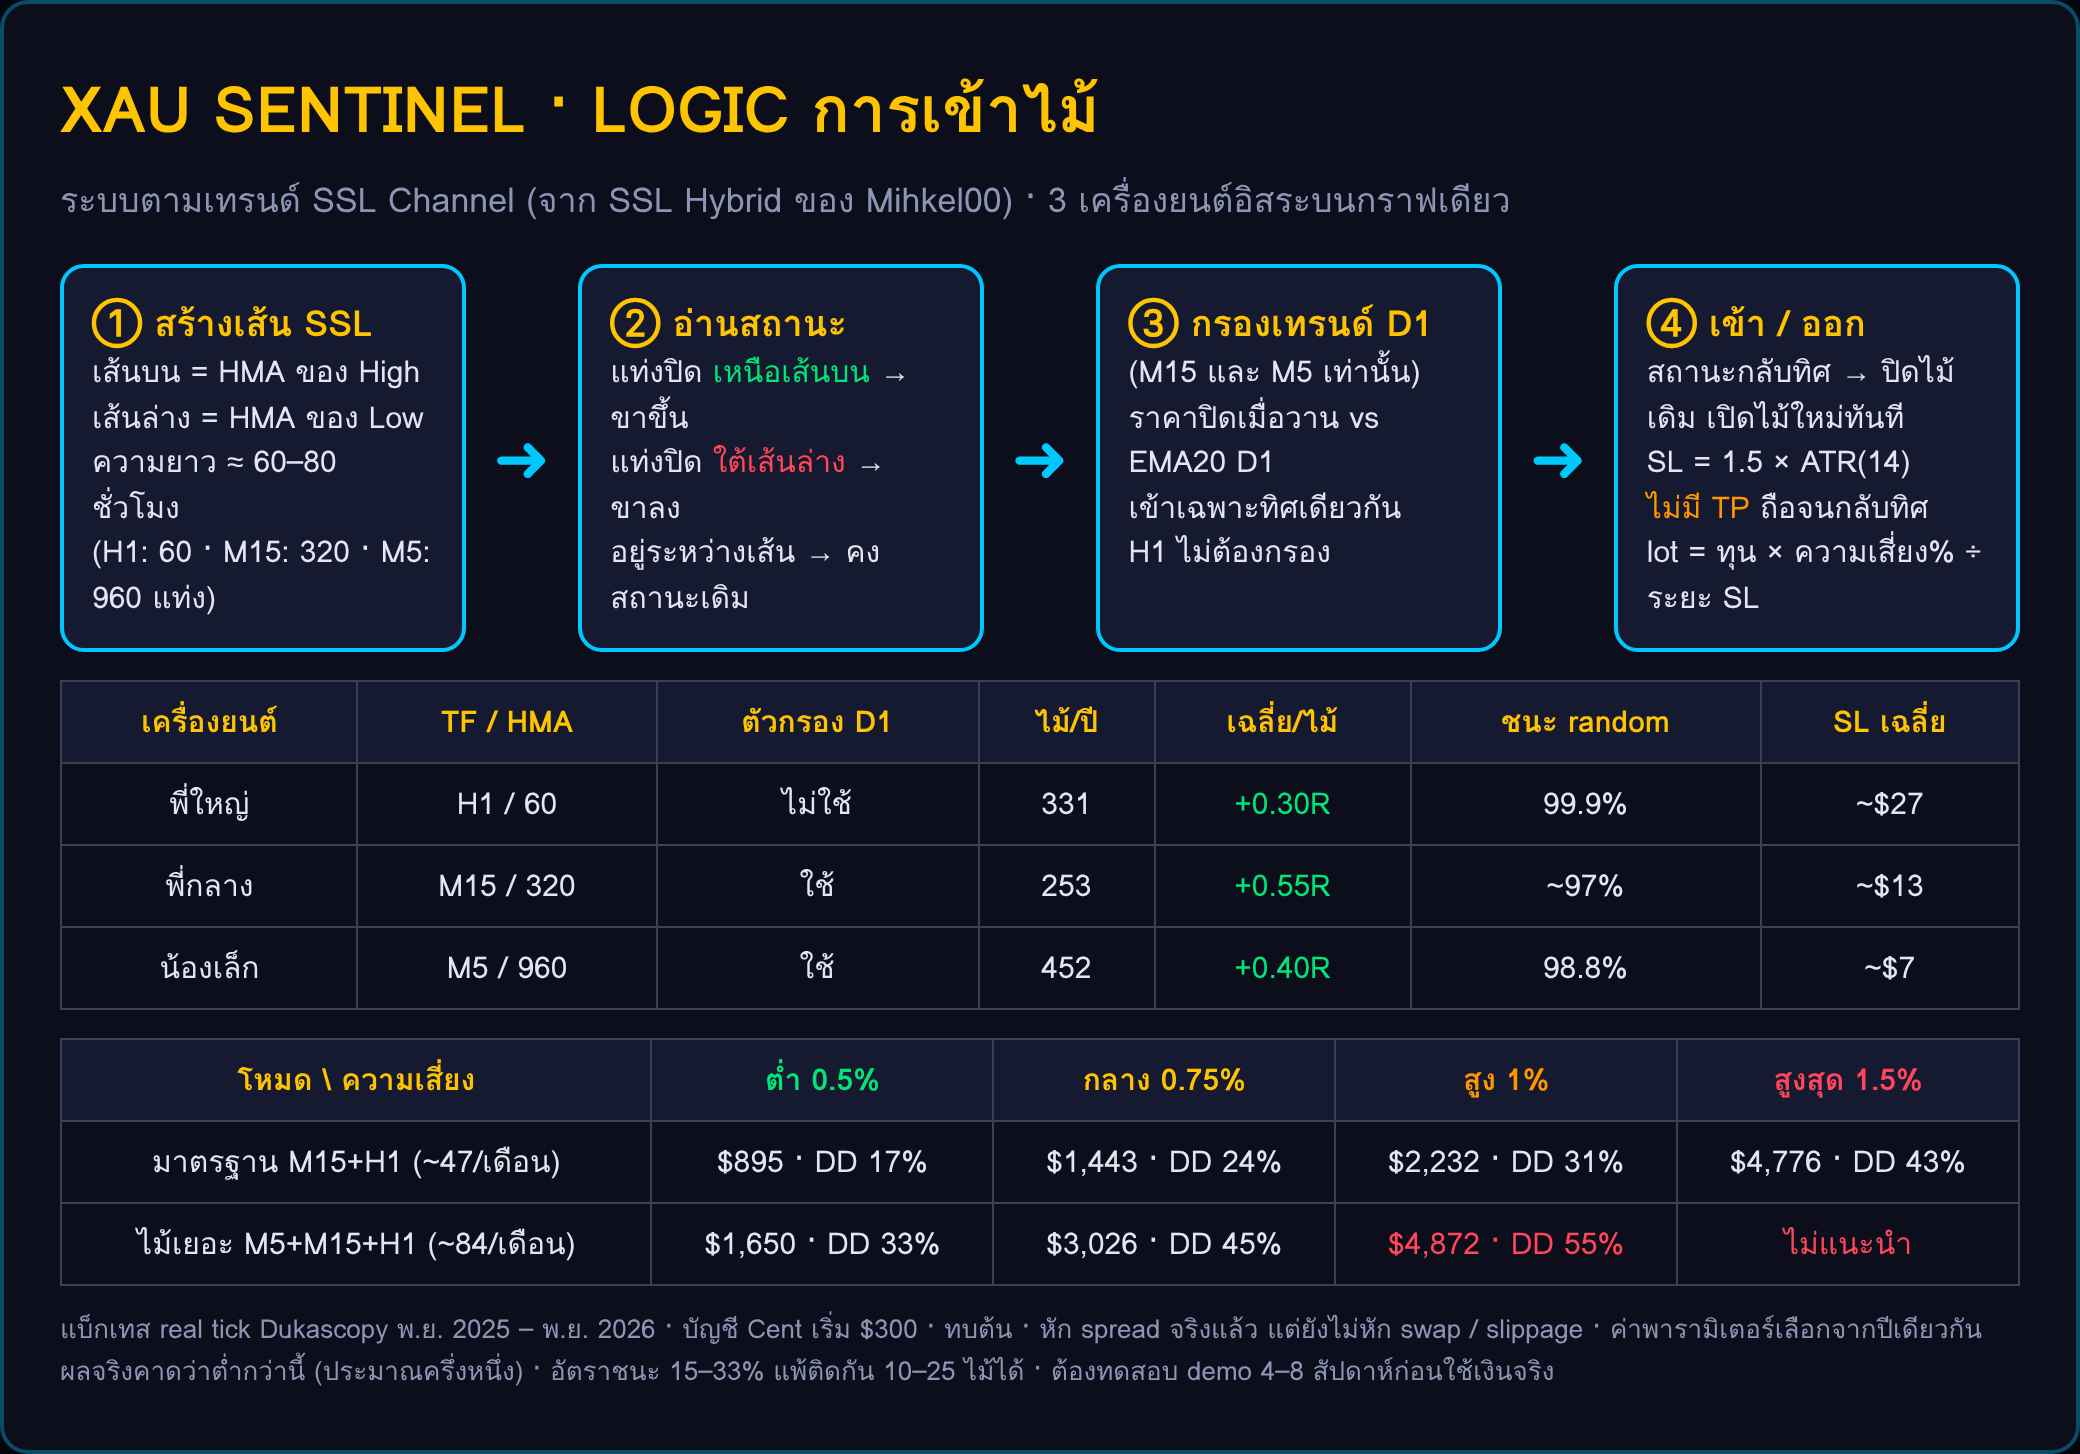
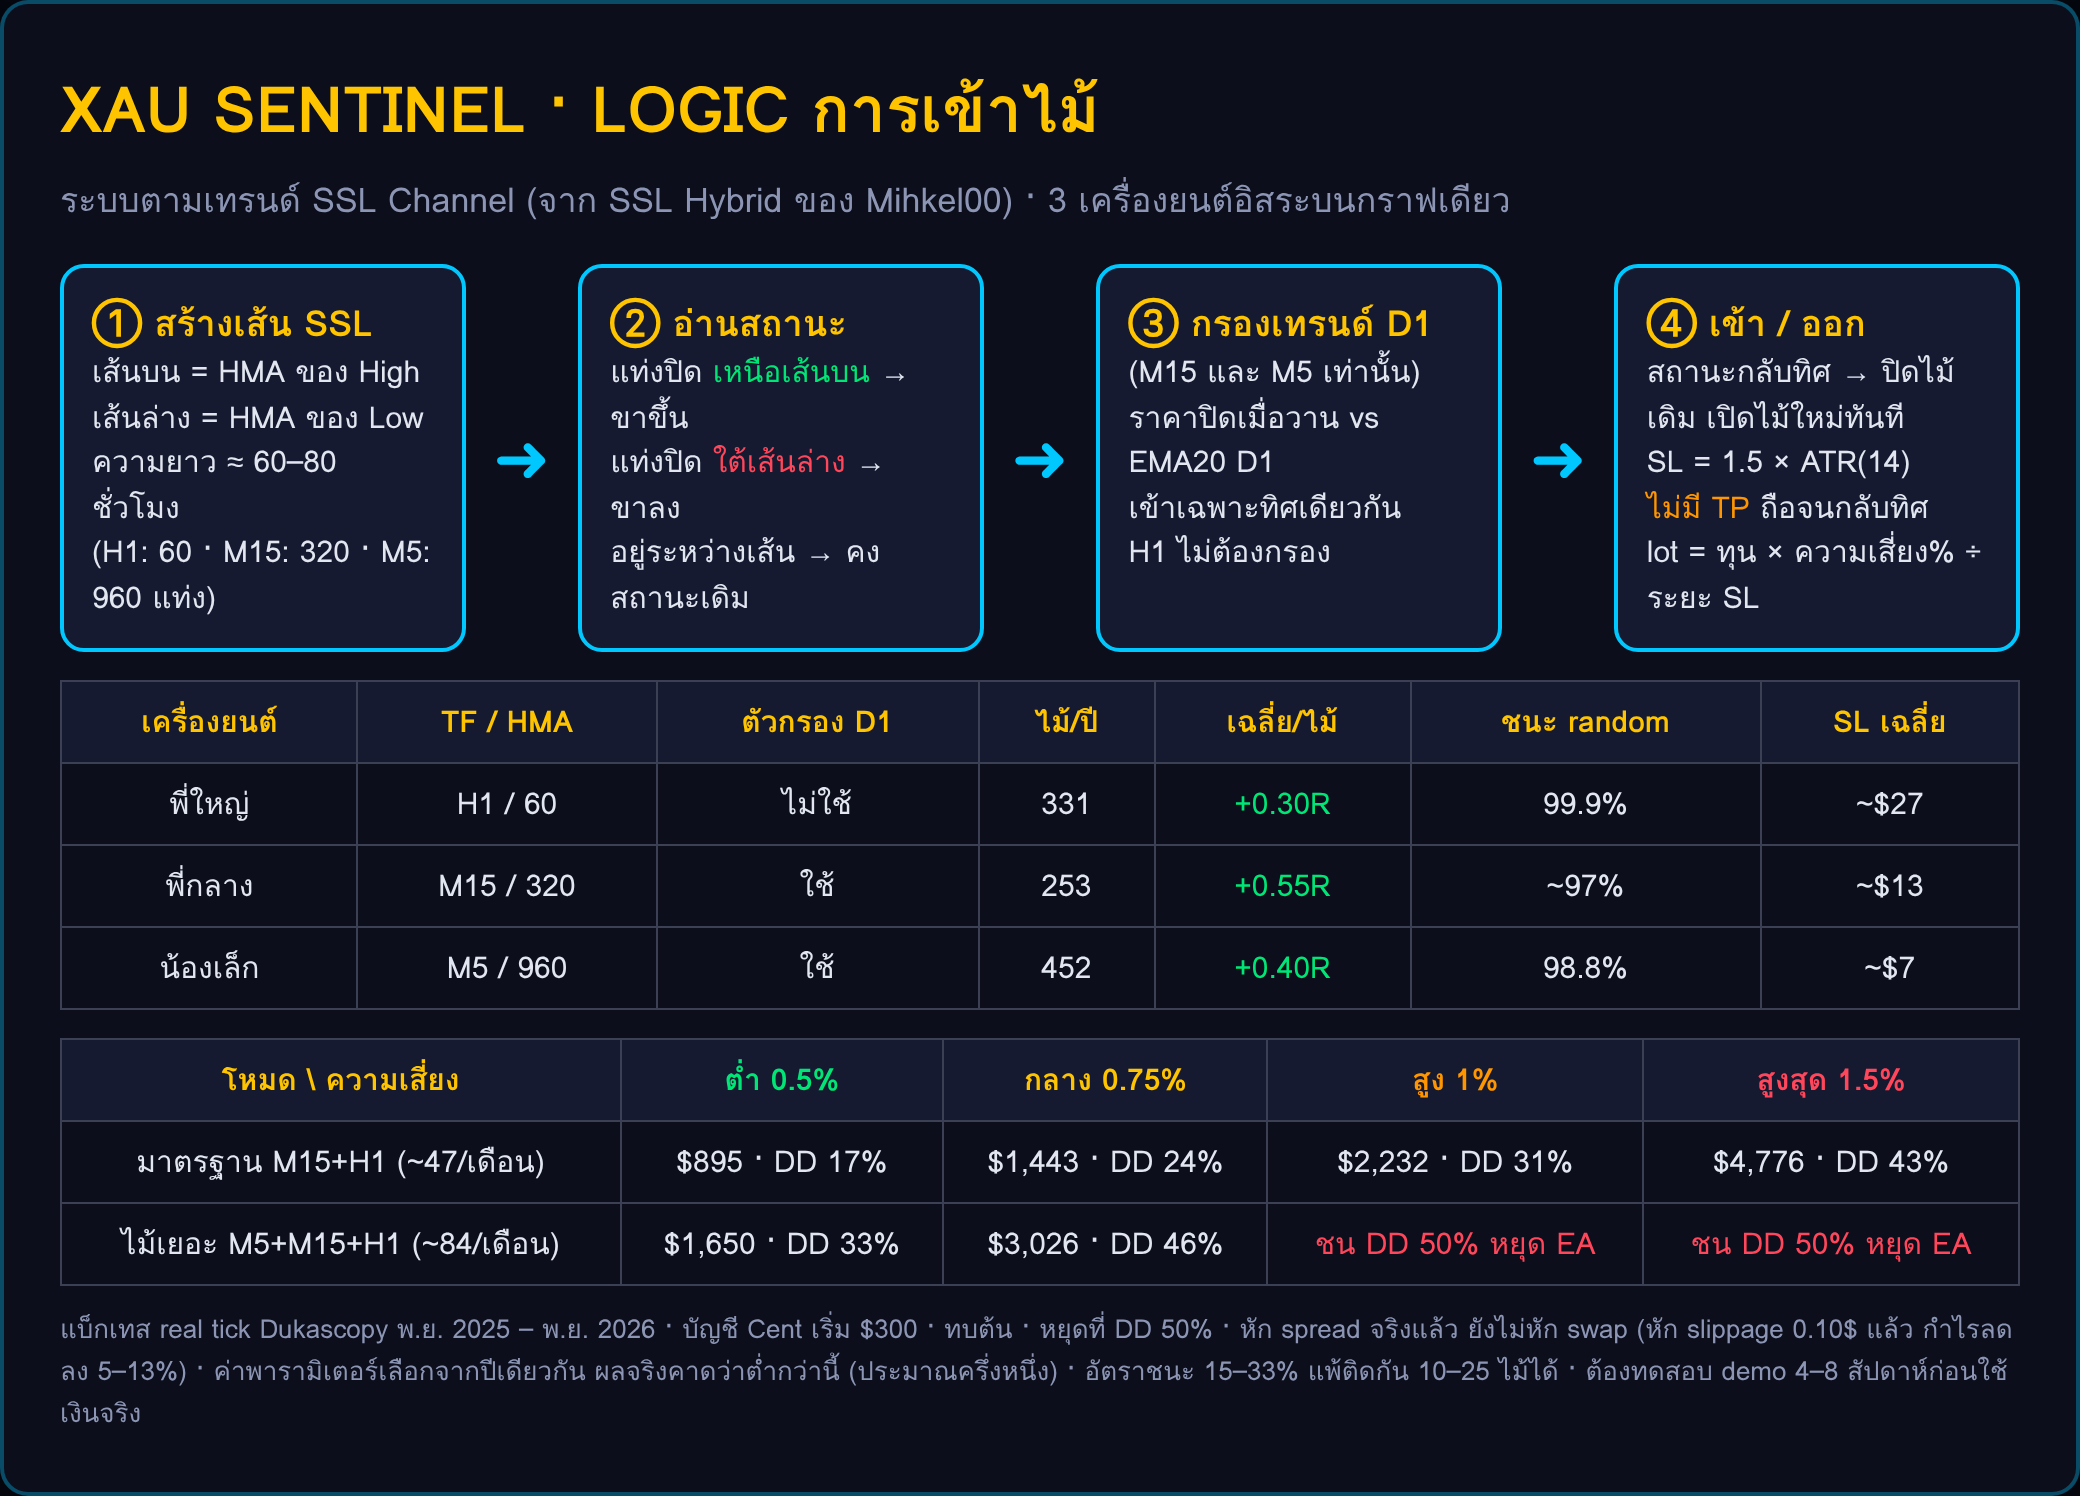
XAU SENTINEL: year backtest with DD halt, slippage; correct high-freq 1%/1.5% figures
Claude-Session: https://claude.ai/code/session_01TDJgaM6YEUTqHfHKeX7Vt3

diff --git a/MQL5/Docs/sentinel/sentinel_visuals.html b/MQL5/Docs/sentinel/sentinel_visuals.html
@@ -97,9 +97,9 @@ td,th{border:1px solid #3c4055;padding:8px 10px;text-align:center}th{background:
  <table>
   <tr><th>โหมด \ ความเสี่ยง</th><th class="g">ต่ำ 0.5%</th><th style="color:#ffc400">กลาง 0.75%</th><th class="o">สูง 1%</th><th class="r">สูงสุด 1.5%</th></tr>
   <tr><td>มาตรฐาน M15+H1 (~47/เดือน)</td><td>$895 · DD 17%</td><td>$1,443 · DD 24%</td><td>$2,232 · DD 31%</td><td>$4,776 · DD 43%</td></tr>
-  <tr><td>ไม้เยอะ M5+M15+H1 (~84/เดือน)</td><td>$1,650 · DD 33%</td><td>$3,026 · DD 45%</td><td class="r">$4,872 · DD 55%</td><td class="r">ไม่แนะนำ</td></tr>
+  <tr><td>ไม้เยอะ M5+M15+H1 (~84/เดือน)</td><td>$1,650 · DD 33%</td><td>$3,026 · DD 46%</td><td class="r">ชน DD 50% หยุด EA</td><td class="r">ชน DD 50% หยุด EA</td></tr>
  </table>
- <div class="small" style="margin-top:12px;line-height:1.6">แบ็กเทส real tick Dukascopy พ.ย. 2025 – พ.ย. 2026 · บัญชี Cent เริ่ม $300 · ทบต้น · หัก spread จริงแล้ว แต่ยังไม่หัก swap / slippage ·
+ <div class="small" style="margin-top:12px;line-height:1.6">แบ็กเทส real tick Dukascopy พ.ย. 2025 – พ.ย. 2026 · บัญชี Cent เริ่ม $300 · ทบต้น · หยุดที่ DD 50% · หัก spread จริงแล้ว ยังไม่หัก swap (หัก slippage 0.10$ แล้ว กำไรลดลง 5–13%) ·
  ค่าพารามิเตอร์เลือกจากปีเดียวกัน ผลจริงคาดว่าต่ำกว่านี้ (ประมาณครึ่งหนึ่ง) · อัตราชนะ 15–33% แพ้ติดกัน 10–25 ไม้ได้ · ต้องทดสอบ demo 4–8 สัปดาห์ก่อนใช้เงินจริง</div>
 </div>
 </body></html>

diff --git a/MQL5/Docs/sentinel/XAU_SENTINEL_คู่มือ.md b/MQL5/Docs/sentinel/XAU_SENTINEL_คู่มือ.md
@@ -20,9 +20,10 @@
 | โหมด \ ความเสี่ยง | ต่ำ 0.5% | กลาง 0.75% | สูง 1% | สูงสุด 1.5% |
 |---|---|---|---|---|
 | มาตรฐาน M15+H1 (~47 ไม้/เดือน) | $895 · DD 17% | $1,443 · DD 24% | $2,232 · DD 31% | $4,776 · DD 43% |
-| ไม้เยอะ M5+M15+H1 (~84 ไม้/เดือน) | $1,650 · DD 33% | $3,026 · DD 45% | $4,872 · DD 55% | ไม่แนะนำ (ไม่ได้ทดสอบ) |
+| ไม้เยอะ M5+M15+H1 (~84 ไม้/เดือน) | $1,650 · DD 33% | $3,026 · DD 46% | ชน DD 50% หยุด EA | ชน DD 50% หยุด EA |
 
-แบ็กเทส real tick Dukascopy พ.ย. 2025 – พ.ย. 2026 บัญชี Cent เริ่ม $300 ทบต้น หัก spread จริงแล้ว ยังไม่หัก swap/slippage
+แบ็กเทส real tick Dukascopy พ.ย. 2025 – พ.ย. 2026 บัญชี Cent เริ่ม $300 ทบต้น หยุดที่ DD 50% หัก spread จริงแล้ว ยังไม่หัก swap
+หัก slippage 0.10$/ด้าน: มาตรฐาน 0.75% → $1,371, ไม้เยอะ 0.75% → $2,643 · บัญชี Standard $300 ที่ 0.75% ข้ามไม้จำนวนมากแล้วชน DD 50% หยุด
 ค่าพารามิเตอร์เลือกจากปีเดียวกัน ผลจริงคาดว่าต่ำกว่านี้ (ประมาณครึ่งหนึ่ง) อัตราชนะ 15–33% และแพ้ติดกัน 10–25 ไม้เป็นเรื่องปกติ
 
 ## แดชบอร์ด
